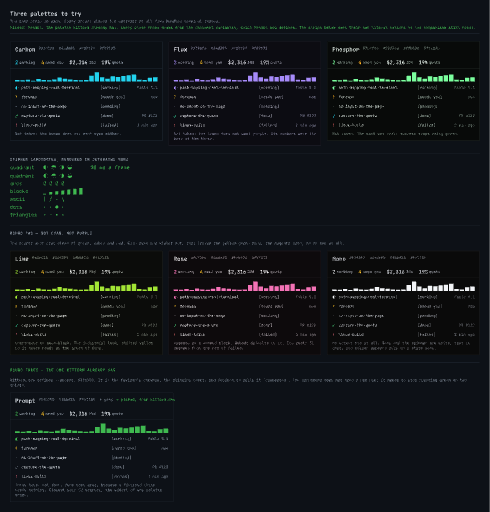
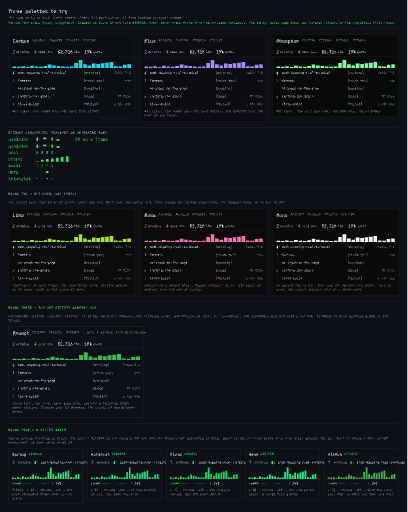
Brighten the brand green
The human said the green still looked wrong. Twelve greens measured in
OKLCh say why, and it is not the hue.

The site's #3fb950 is the darkest but one and the third-least saturated
of the twelve: L* 69.5, chroma 0.181. A green that is both dark and
low-chroma on a near-black ground reads muddy, and the day chart is a
large field of it, which is where that shows most.

Spring #2ee66b is the pick: L* 81.2 and chroma 0.218, the most saturated
green that is not glare. Above L* 85 a large fill starts to glare, and
the chart is the largest accent field on the page. The hue stays where
the brand put it, 149 degrees, still 106 from the amber of needs-you.

Light theme takes #0a7f3f, which reads 5.10 on the ground.

Proposed and not made: `site/index.html` still sets --accent #3fb950, so
the dashboard and the site are no longer the same green. The site can
take #2ee66b in one line, with the favicon's two stroke attributes.

Claude-Session: https://claude.ai/code/session_012ztzwyRLLwgnU2inMa4JWu

diff --git a/docs/goals/agent-dashboard/corpus/palette.md b/docs/goals/agent-dashboard/corpus/palette.md
@@ -68,7 +68,47 @@ Signal the cyan accent sits 46° from the success green; in Phosphor the
 accent *is* green and success has to move to cyan, which inverts a
 mapping every reader already knows.
 
-## The decision: Prompt, the palette kitterm already has
+## The decision: the brand green, brightened
+
+The human said the green still looked wrong. Measuring twelve greens in
+OKLCh says why, and the answer is not the hue.
+
+**`#3fb950` is the darkest but one and the third-least saturated green of
+the twelve.** L* 69.5 and chroma 0.181. A green that is both dark and
+low-chroma on a near-black ground reads muddy, and the day chart is a
+large field of it, which is where that shows most.
+
+| Green | Hex | L* | Chroma | Contrast on `#0d1117` |
+|---|---|---:|---:|---:|
+| **Spring — picked** | `#2ee66b` | 81.2 | **0.218** | 11.40 |
+| Material A400 | `#00e676` | 81.0 | 0.214 | 11.34 |
+| Vivid | `#00e05a` | 79.1 | 0.230 | 10.64 |
+| Neon | `#00ff88` | 87.6 | 0.228 | 14.11 |
+| Tailwind 400 | `#4ade80` | 80.0 | 0.182 | 10.86 |
+| GitHub, the site's | `#3fb950` | 69.5 | 0.181 | 7.45 |
+| Emerald 400 | `#34d399` | 77.3 | 0.153 | 9.84 |
+
+**Spring `#2ee66b` is the most saturated green that is not glare.**
+Above L* 85 a large fill starts to glare — Neon and Phosphor both do,
+and the chart is the largest accent field on the page. Spring holds the
+chroma at a lightness that does not.
+
+The hue stays where the brand put it: 149°, still 106° from the amber of
+needs-you and 158° from the red of failed. Everything else about the
+palette is unchanged.
+
+Light theme: `#2ee66b` reads 1.6 on white, so the light accent is
+`#0a7f3f`, which reads 5.10 on the ground and 4.79 on the surface.
+
+### One thing for the human
+
+**`site/index.html` still sets `--accent: #3fb950`.** The dashboard and
+the site are no longer the same green. Either the site takes `#2ee66b`
+too — a one-line change, and the favicon's two `stroke="#3fb950"`
+attributes with it — or the tie between them is structural rather than
+exact. The foreman proposes the first and has not made it.
+
+## Where the green came from: the palette kitterm already has
 
 The human asked what colour the landing page uses. It uses a defined
 one, and looking there settled the question that two rounds of
